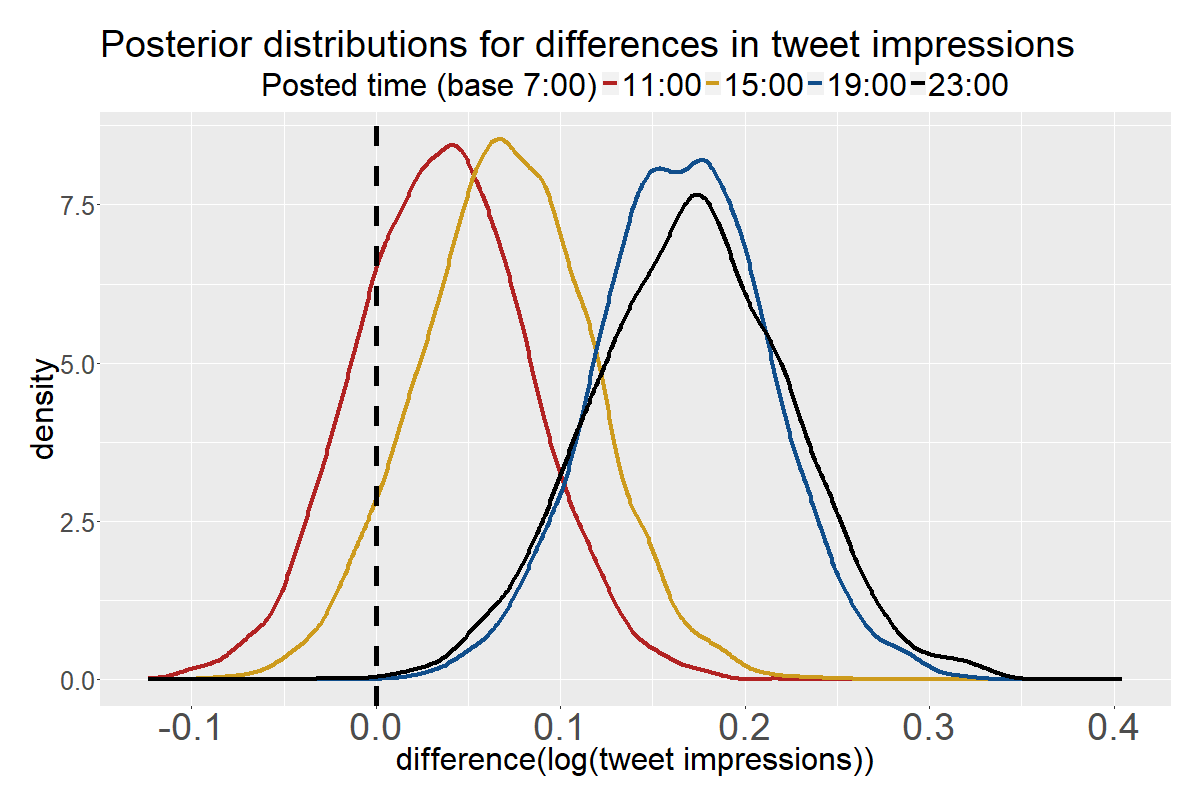
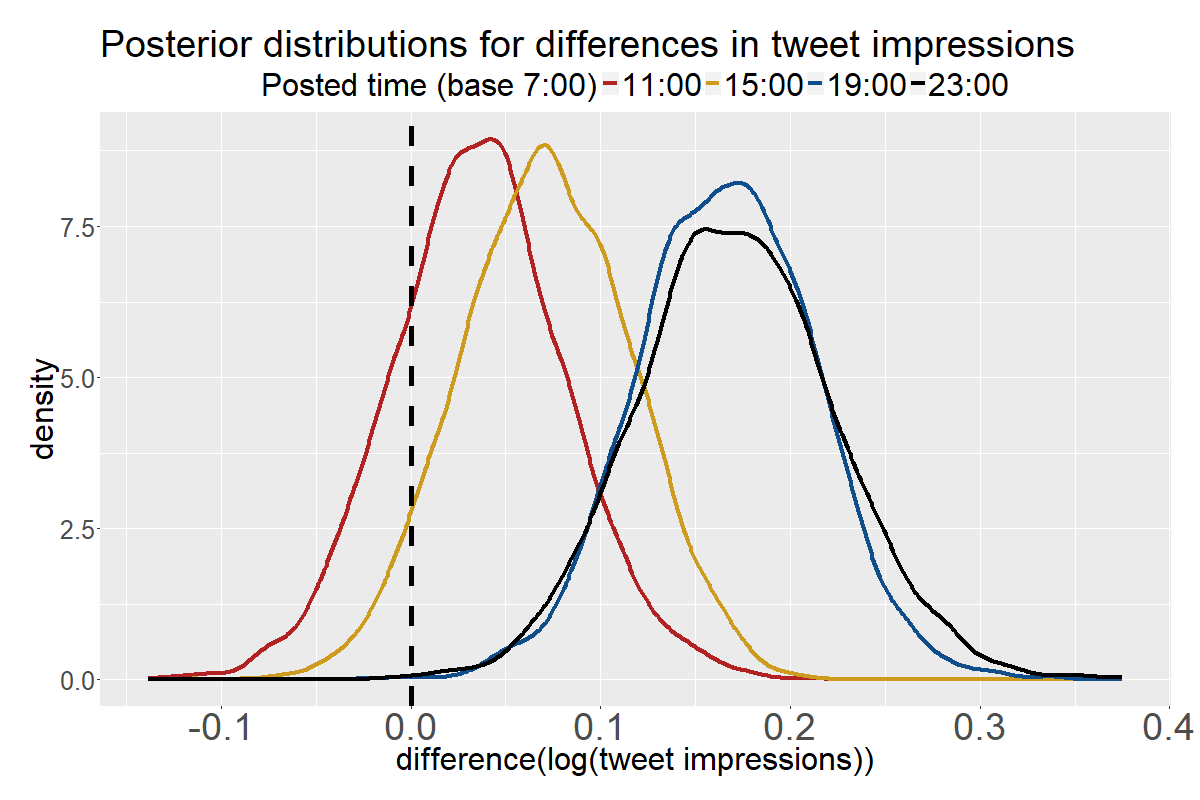
Improve bayesian scripts

diff --git a/scripts/analyze_tweet_activity/analyze_tweet_activity_bayesian.py b/scripts/analyze_tweet_activity/analyze_tweet_activity_bayesian.py
@@ -3,6 +3,18 @@
 
 '''
 Prefilter tweets to a bayesian analysis
+Usage:
+$ python analyze_tweet_activity_bayesian.py [--hour_span N] [input-csv-filename [output-csv-filename]]
+- --hour_span N indicates there are N hours between tweets
+- It extracts columns for the analysis and convert column names of an input CSV
+- It removes tweet texts because they are possibly contain characters
+  which R cannot handle such as U+10000 emojis
+- It adds time_index and autopost columns
+ + time_index is
+  - -1 for tweets posted manually
+  - 0 for tweets posted 7:00 automatically (the first of a day),
+  - 1 for second (7:00 + N hours), 2 for third (7:00 + 2*N hours), and so on
+ + autopost indicates whether each tweet are posted automatically
 '''
 
 import pandas
@@ -10,6 +22,7 @@ import re
 import sys
 import warnings
 from collections import OrderedDict
+from optparse import OptionParser
 
 # Suppress warnings to assign new columns as df['A'] = value
 pandas.options.mode.chained_assignment = None
@@ -22,29 +35,44 @@ COLUMN_NAME_FROM_TO = OrderedDict({'時間': 'time',
 
 DEFAULT_INFILENAME  = 'data/in2.csv' # input data filename
 DEFAULT_OUTFILENAME = 'data/converted2.csv' # output data filename
+DEFAULT_HOUR_SPAN = 4
 EXIT_STATUS_SUCCESS = 0
+
+# Convert 7:00 JST (the first posting of a day) to PST
+POSINTG_FIRST_HOUR = 7
+POSINTG_LAST_HOUR = 23
+TIMEZONE_HOUR_OFFSET = 15
+HOURS_PER_DAY = 24
 
 class TweetImpressions(object):
     '''Filter a tweet CSV file and write it to another'''
 
-    def __init__(self, infilename, outfilename):
+    def __init__(self, infilename, outfilename, hour_span):
         # UTC Time
-        self.autopost_regex = re.compile('.* (22|02|06|10|14):0[0-3] ')
-        tweets = self.parse(infilename)
+        pattern = '.* ' + self.make_hour_set(hour_span) + ':0[0-3] '
+        self.autopost_regex = re.compile(pattern)
+        tweets = self.parse(infilename, hour_span)
         tweets.to_csv(outfilename, index_label='index')
 
-    def parse(self, infilename):
+    @staticmethod
+    def make_hour_set(hour_span):
+        '''Make a string to extract hours by a regexp'''
+        hour_set = map(lambda x: '{:02d}'.format((x + TIMEZONE_HOUR_OFFSET) % HOURS_PER_DAY),
+                       range(POSINTG_FIRST_HOUR, POSINTG_LAST_HOUR + hour_span, hour_span))
+        return '({})'.format('|'.join(hour_set))
+
+    def parse(self, infilename, hour_span):
         '''Parses UTF-8 CSV lines'''
         in_tweets = pandas.read_csv(infilename)
         in_tweets.rename(columns=COLUMN_NAME_FROM_TO, inplace=True)
         column_names = list(COLUMN_NAME_FROM_TO.values())
 
         out_tweets = in_tweets[column_names]
-        out_tweets['time_index'] = out_tweets['time'].apply(lambda x: self.get_time_index(x))
+        out_tweets['time_index'] = out_tweets['time'].apply(lambda x: self.get_time_index(x, hour_span))
         out_tweets['autopost'] = out_tweets['time_index'].apply(lambda x: x >= 0)
         return out_tweets
 
-    def get_time_index(self, time_str):
+    def get_time_index(self, time_str, hour_span):
         '''Get time index if a tweet is automatically posted otherwise -1'''
 
         matched = self.autopost_regex.match(time_str)
@@ -52,20 +80,33 @@ class TweetImpressions(object):
         if matched is not None:
             # Convert JST 07:00, 11:00, 15:00, 19:00, 23:00 to 0..4
             try:
-                time_index = ((int(matched[1]) + 24 + 9 - 7) % 24) // 4
+                timestamp = int(matched[1]) + HOURS_PER_DAY * 2 - TIMEZONE_HOUR_OFFSET - POSINTG_FIRST_HOUR
+                time_index = (timestamp % HOURS_PER_DAY) // hour_span
             except ValueError:
                 # failed to parse as a number
                 pass
 
         return time_index
 
-if __name__ == "__main__":
+
+def main():
+    exit_status_code = EXIT_STATUS_SUCCESS
     in_filename = DEFAULT_INFILENAME
     out_filename = DEFAULT_OUTFILENAME
-    if len(sys.argv) > 1:
-        in_filename = sys.argv[1]
-    if len(sys.argv) > 2:
-        out_filename = sys.argv[n]
 
-    TweetImpressions(in_filename, out_filename)
-    sys.exit(EXIT_STATUS_SUCCESS)
+    parser = OptionParser()
+    parser.add_option("-s", "--hour_span", dest="span", type="int",
+                      help="Hours between tweets")
+    (options, args) = parser.parse_args()
+    hour_span = DEFAULT_HOUR_SPAN if options.span is None else options.span
+
+    if len(args) > 0:
+        in_filename = args[0]
+    if len(args) > 1:
+        out_filename = args[1]
+
+    TweetImpressions(in_filename, out_filename, hour_span)
+    return exit_status_code
+
+if __name__ == "__main__":
+    sys.exit(main())

diff --git a/postedTime.md b/postedTime.md
@@ -12,7 +12,7 @@
 
 ## 投稿時刻による差を推定する
 
-解析対象のデータは、ツイートアクティビティのデータをCSVエクスポートしたものです。今回は2018/1/7-2018/3/17の10週間(70日間)のツイートインプレッションを調べます。スクリプトの入出力ファイル名はまだ固定です。
+解析対象のデータは、ツイートアクティビティのデータをCSVエクスポートしたものです。今回は2018/1/7-2018/3/17の10週間(70日間)のツイートインプレッションを調べます。引数は[analyze_tweet_activity_bayesian.bat](scripts/analyze_tweet_activity/analyze_tweet_activity_bayesian.bat)を参考にしてください。
 
 * ツイートアクティビティのデータをCSVエクスポートします。曜日の影響を除くために、週単位がよいでしょう。今日から2,3日前までのツイートインプレッションは過少評価されているようですので除きます。
 * CSVファイルを、analyze_tweet_activity_bayesian.py で前処理します。ツイート本文の絵文字のように、Rが解釈できそうもない文字を除くのと、botの投稿か中の人の投稿かを投稿時刻で見分ける、ということをしています。
